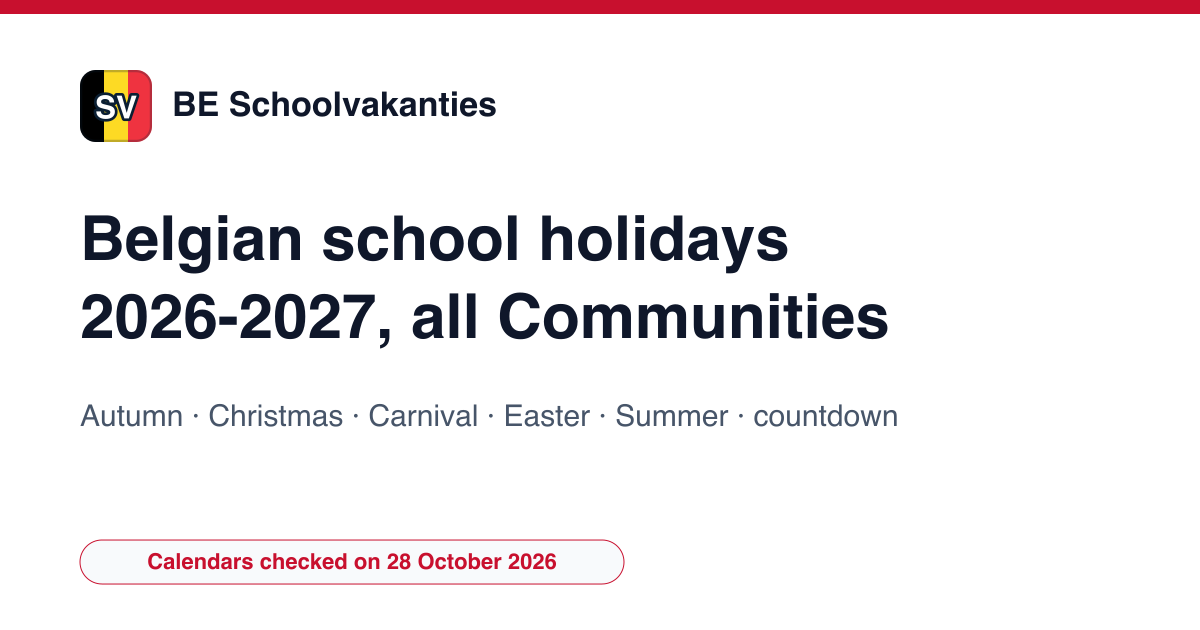
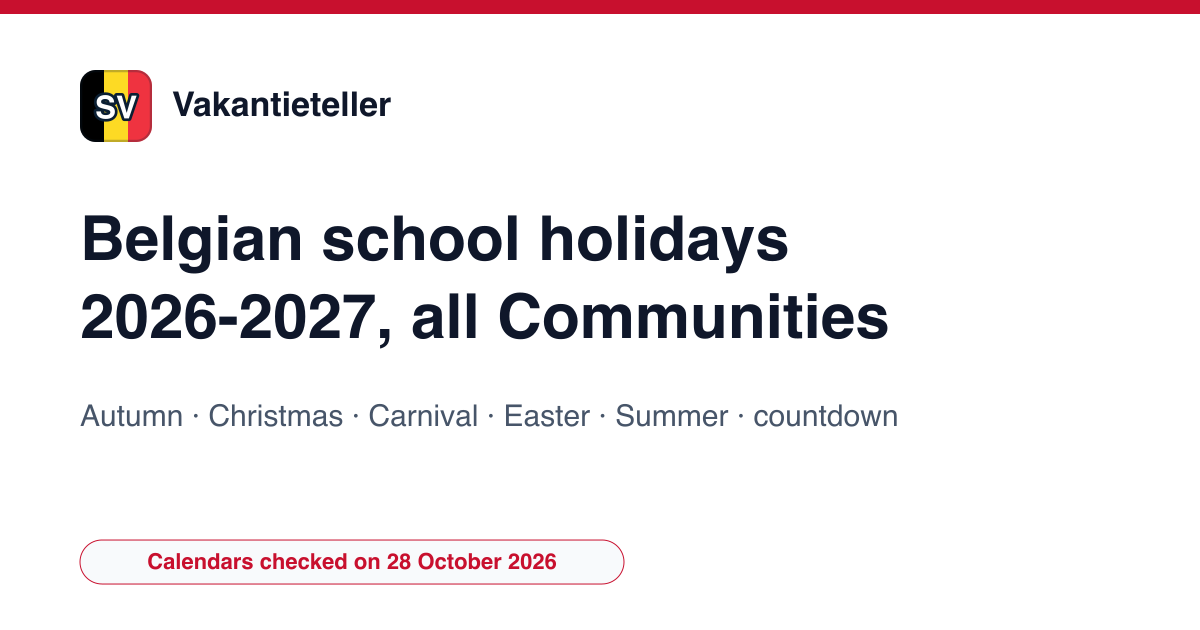
Renommage : BE Schoolvakanties devient Vakantieteller (vakantieteller.be)
Adresse https://vakantieteller.be, contact@vakantieteller.be, CNAME, robots, manifest, pages de service,
images OG régénérées, workflow Pages avec ping IndexNow, titres et descriptions remis à 50-60 / 150-160.

Changed region(s): [[0.1233, 0.1206, 0.4317, 0.181]]

diff --git a/src/data/site-config.ts b/src/data/site-config.ts
@@ -1,8 +1,8 @@
 /** Configuration centrale du site (générée par new-site.py). */
-export const SITE_URL = "https://be-schoolvakanties.example";
-export const SITE_NAMES: Record<string, string> = {"nl": "BE Schoolvakanties", "fr": "BE Schoolvakanties", "en": "BE Schoolvakanties"};
+export const SITE_URL = "https://vakantieteller.be";
+export const SITE_NAMES: Record<string, string> = {"nl": "Vakantieteller", "fr": "Vakantieteller", "en": "Vakantieteller"};
 // Partie du nom affichée en couleur dans l'en-tête (RECETTE §10.3), « » pour aucune.
-export const BRAND_ACCENT = "Schoolvakanties";
+export const BRAND_ACCENT = "teller";
 export const LANG_TAGS: Record<string, string> = {"nl": "nl-BE", "fr": "fr-BE", "en": "en-BE"};
 export const OG_LOCALES: Record<string, string> = {"nl": "nl_BE", "fr": "fr_BE", "en": "en_GB"};
 export const LOCALE_TAG = 'nl-BE';
@@ -20,7 +20,7 @@ export const AUTHOR_DESC: Record<string, string> = {"nl": "Radif Partners leest 
  *  themes reellement traites par le site, pas une liste de mots-cles : un sujet
  *  declare ici sans page qui le couvre est une declaration fausse. */
 export const KNOWS_ABOUT: Record<string, string[]> = {"nl": ["Schoolvakanties in de Vlaamse Gemeenschap", "Schoolkalender van de Fédération Wallonie-Bruxelles", "Wettelijke feestdagen in België", "Vervangingsdagen en brugdagen", "Werkdagen en weeknummers"], "fr": ["Vacances scolaires en Communauté flamande", "Calendrier scolaire de la Fédération Wallonie-Bruxelles", "Jours fériés légaux en Belgique", "Jours de remplacement et ponts", "Jours ouvrables et numéros de semaine"], "en": ["School holidays in the Flemish Community", "School calendar of the Wallonia-Brussels Federation", "Statutory public holidays in Belgium", "Replacement days and bridge days", "Working days and week numbers"]};
-export const CONTACT_EMAIL = "contact@be-schoolvakanties.example";
+export const CONTACT_EMAIL = "contact@vakantieteller.be";
 export const THEME_COLOR = '#C8102E';
 export const LOGO_SYMBOL = 'SV';
 export const BING_VERIFY_CODE = '';
